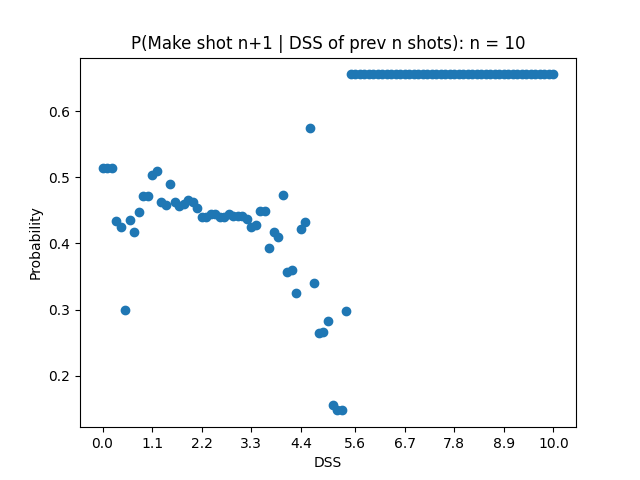
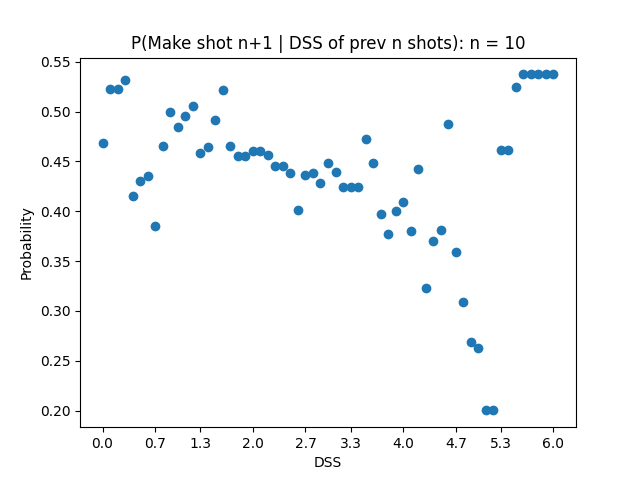
Add plots with lines for DAHHH DSS/DPTS using Savitzky Golay filtering for smoothing

diff --git a/src/probability.py b/src/probability.py
@@ -1,7 +1,9 @@
 import matplotlib.pyplot as plt
+import math
 import numpy as np
 import os
 import pandas as pd
+from scipy.signal import savgol_filter
 
 from models import logistic_regression, xgboost
 
@@ -194,33 +196,37 @@ def hhh_prob_for_fixed_length_shot_sequences(df, max_shot_memory, verbose=False,
     
     return probabilities
 
-def dahhh_prob_given_diff_adj_shot_metrics(df, metric, max_shot_memory, verbose=False, plot=False, plot_with_line=True):
+def dahhh_prob_given_diff_adj_shot_metrics(df, metric, max_shot_memory, verbose=False, plot=False):
     probabilities = []
 
     # metric = "DSS" or "DPTS"
     for n in range(1, max_shot_memory+1):
-        in_features = [f"{metric}-{n}"]
+        metric_col = f"{metric}-{n}"
+        in_features = [metric_col]
         df_sub = df.dropna(subset=in_features)
 
-        # TODO: Include multiple models and determine which has best accuracy. Use that model to predict probabilities
         xgb_clf = xgboost(df_sub, in_features, out_features=["FGM"], verbose=verbose)
         
         max_metric_value = (1 if metric == "DSS" else 3) * n + 0.01 # add extra 0.01 so we can include rightmost endpoint
+        max_metric_value = math.ceil(df[metric_col].max()) + 0.01
         metric_values = np.arange(0, max_metric_value, 0.1).reshape(-1, 1)
-        prob_make_given_dss = xgb_clf.predict_proba(metric_values)[:, 1]
-        probabilities.append(list(zip(metric_values, prob_make_given_dss)))
+        prob_make_given_metric = xgb_clf.predict_proba(metric_values)[:, 1]
+        probabilities.append(list(zip(metric_values, prob_make_given_metric)))
 
         if plot:
-            make_scatter_plot(
-                np.squeeze(metric_values),
-                [prob_make_given_dss],
-                line_graph=plot_with_line,
-                xlabel=metric,
-                ylabel="Probability",
-                title=f"P(Make shot n+1 | {metric} of prev n shots): n = {n}",
-                dir_name=f"plots\dahhh_{metric}",
-                file_name=f"prob_make_given_{metric}_of_prev_{n}_shots{'_line' if plot_with_line else ''}.png"
-            )
+            # Since probabilities are based on xgb_clf predictions, when plotting the probabilities,
+            # we need to plot both with and without lines to preserve consistency across plots
+            for plot_with_line in [False, True]:
+                make_scatter_plot(
+                    np.squeeze(metric_values),
+                    [savgol_filter(prob_make_given_metric, 7, 3)] if plot_with_line else [prob_make_given_metric],
+                    line_graph=plot_with_line,
+                    xlabel=metric,
+                    ylabel="Probability",
+                    title=f"P(Make shot n+1 | {metric} of prev n shots): n = {n}",
+                    dir_name=f"plots\dahhh_{metric}",
+                    file_name=f"prob_make_given_{metric}_of_prev_{n}_shots{'_line' if plot_with_line else ''}.png"
+                )
 
     return probabilities
 
@@ -269,6 +275,6 @@ if __name__ == '__main__':
         file_name="prob_make_given_n_straight_diff_adj.png"
     )
 
-    probabilities_dahhh_dss = dahhh_prob_given_diff_adj_shot_metrics(df, "DSS", max_shot_memory, plot=True, plot_with_line=False)
+    probabilities_dahhh_dss = dahhh_prob_given_diff_adj_shot_metrics(df, "DSS", max_shot_memory, plot=True)
 
-    probabilities_dahhh_dpts = dahhh_prob_given_diff_adj_shot_metrics(df, "DPTS", max_shot_memory, plot=True, plot_with_line=False)
+    probabilities_dahhh_dpts = dahhh_prob_given_diff_adj_shot_metrics(df, "DPTS", max_shot_memory, plot=True)
